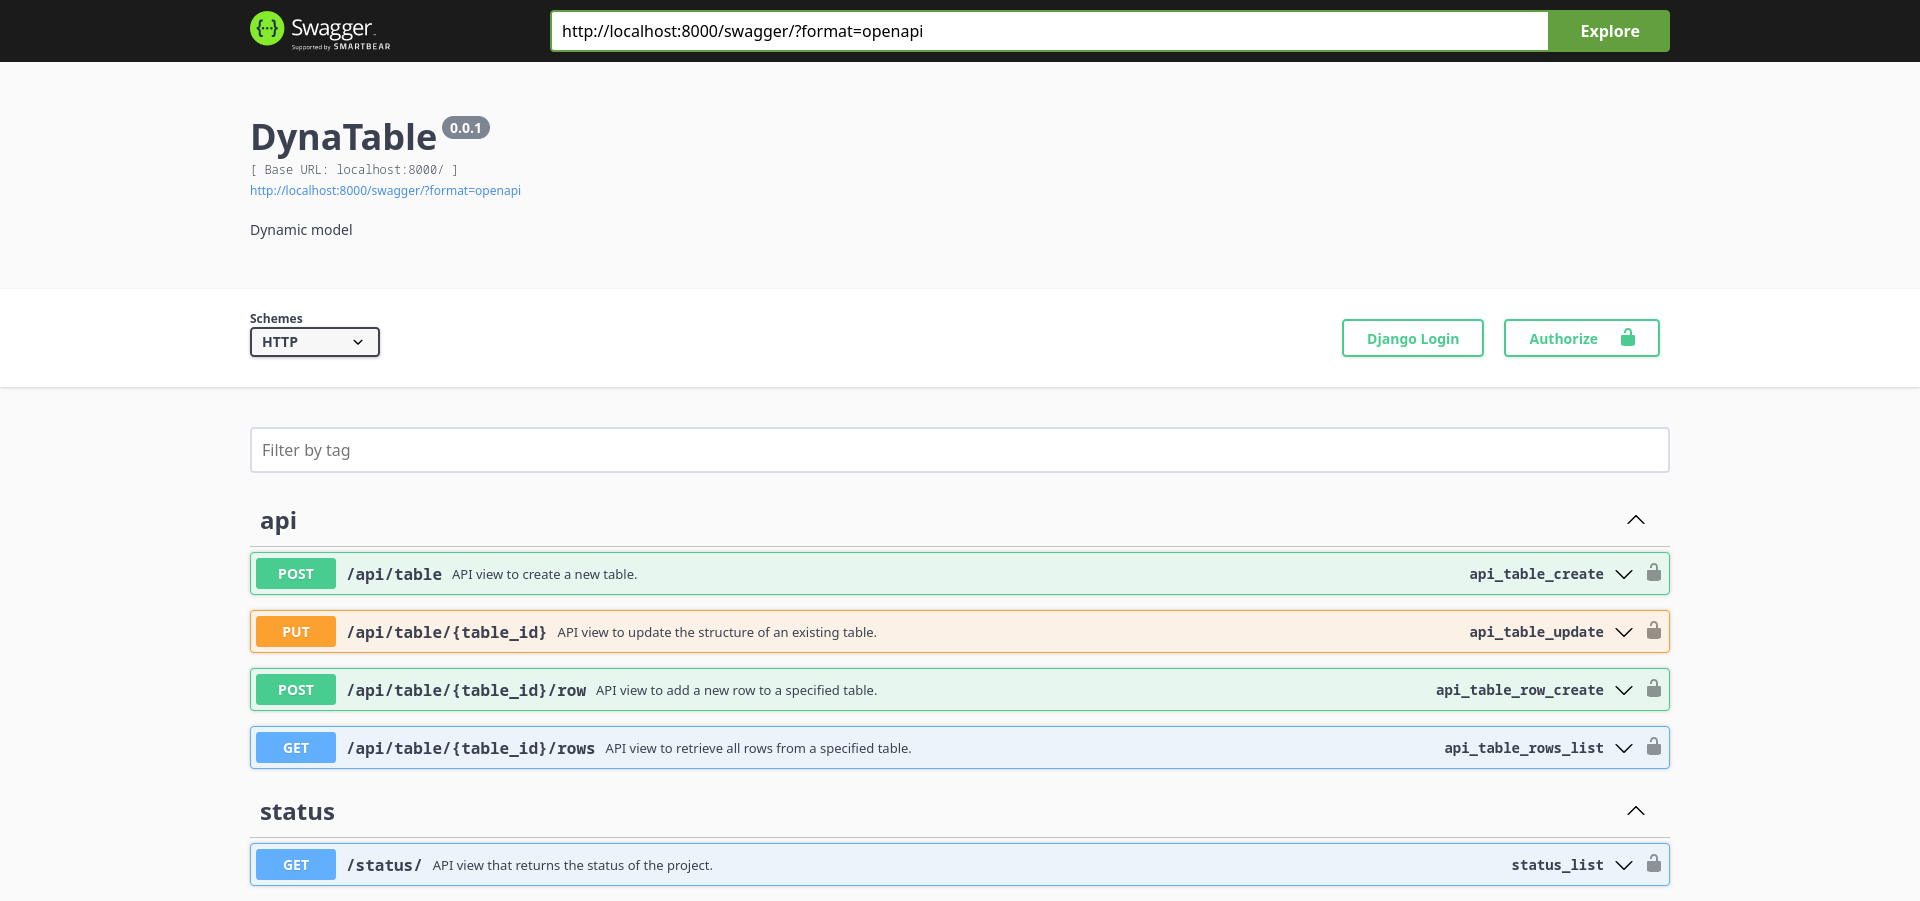
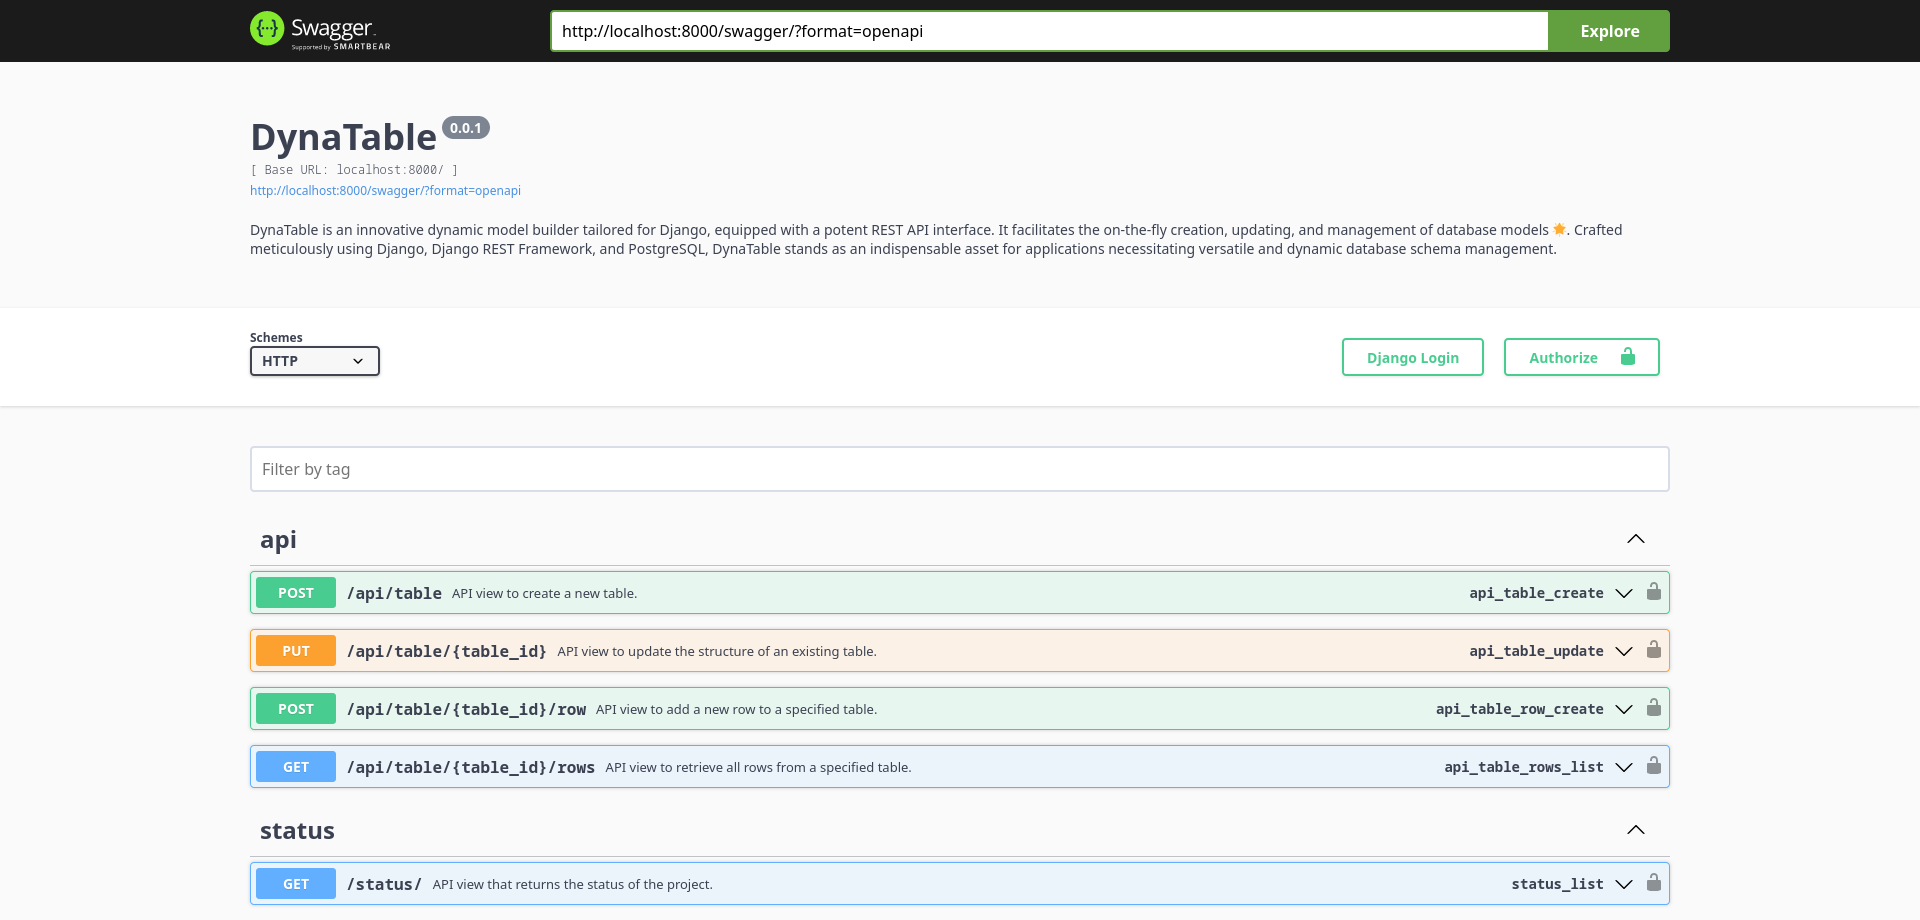
Update

diff --git a/src/dynatable/urls.py b/src/dynatable/urls.py
@@ -26,7 +26,7 @@ schema_view = get_schema_view(
     openapi.Info(
         title="DynaTable",
         default_version="0.0.1",
-        description="Dynamic model",
+        description="DynaTable is an innovative dynamic model builder tailored for Django, equipped with a potent REST API interface. It facilitates the on-the-fly creation, updating, and management of database models 🌟. Crafted meticulously using Django, Django REST Framework, and PostgreSQL, DynaTable stands as an indispensable asset for applications necessitating versatile and dynamic database schema management.",
     ),
     public=True,
     permission_classes=(permissions.AllowAny,),

diff --git a/src/dynatable/views.py b/src/dynatable/views.py
@@ -1,5 +1,6 @@
 from rest_framework import status
 from rest_framework.decorators import api_view
+from rest_framework.request import Request
 from rest_framework.response import Response
 
 from dynatable.logger import get_logger
@@ -8,7 +9,7 @@ logger = get_logger("dynatable.views")
 
 
 @api_view(["GET"])
-def project_status(request):
+def project_status(request: Request) -> Response:
     """
     API view that returns the status of the project.
 

diff --git a/src/dynatable/logger.py b/src/dynatable/logger.py
@@ -1,7 +1,7 @@
 import logging
 
 
-def get_logger(name):
+def get_logger(name: str) -> logging.Logger:
     """
     Creates and returns a logger with the specified name.
 
